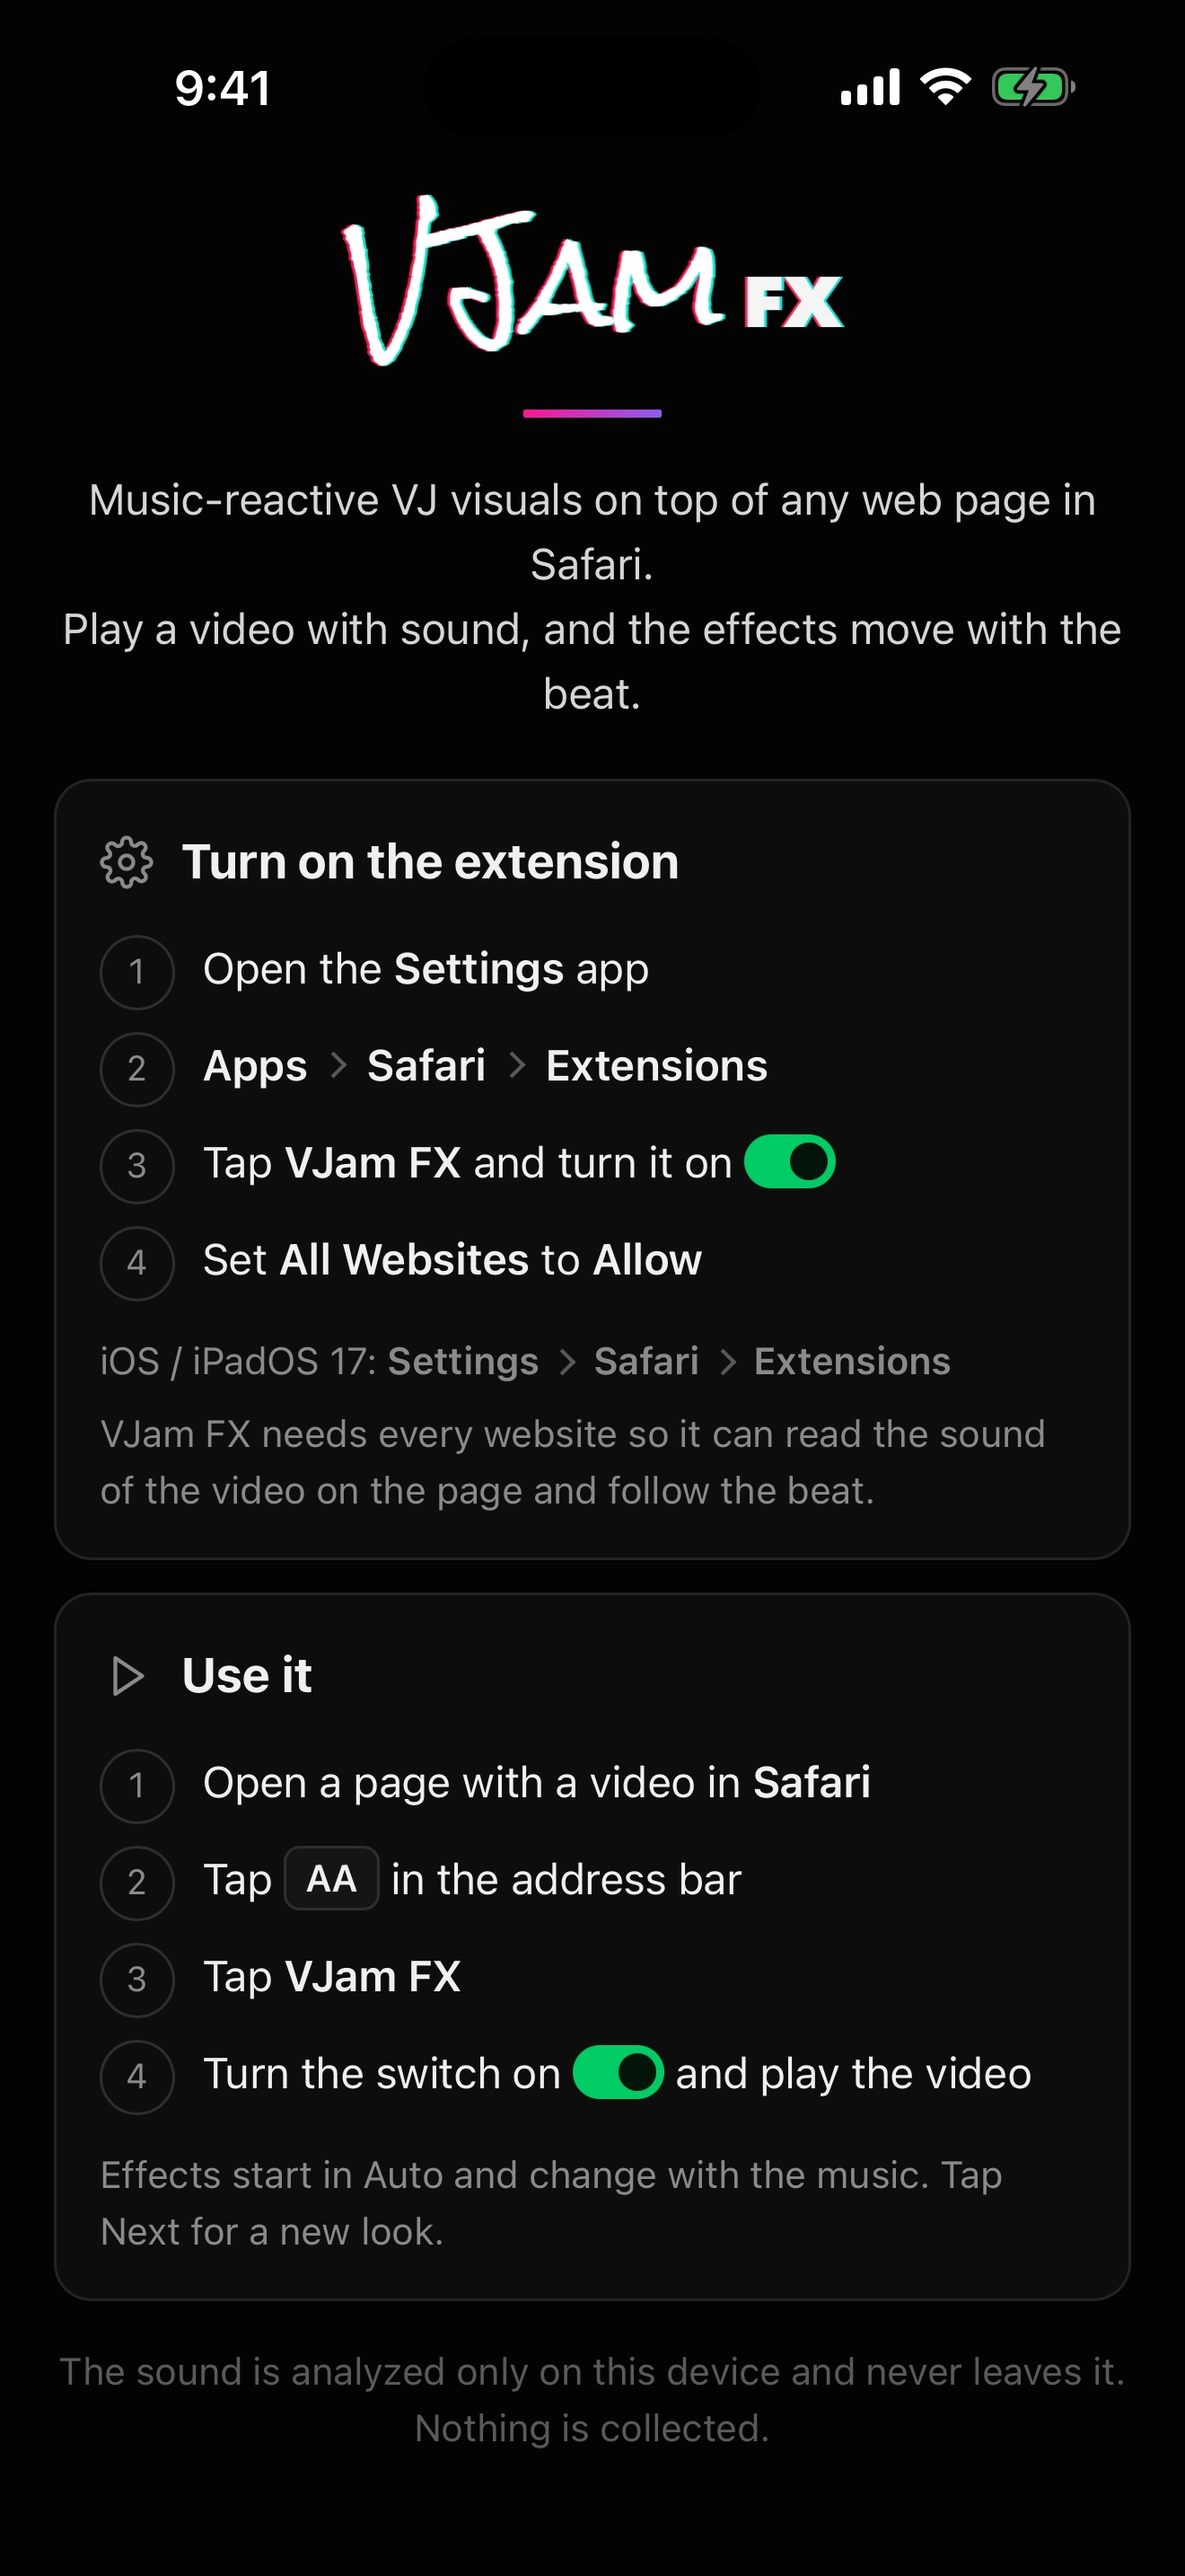
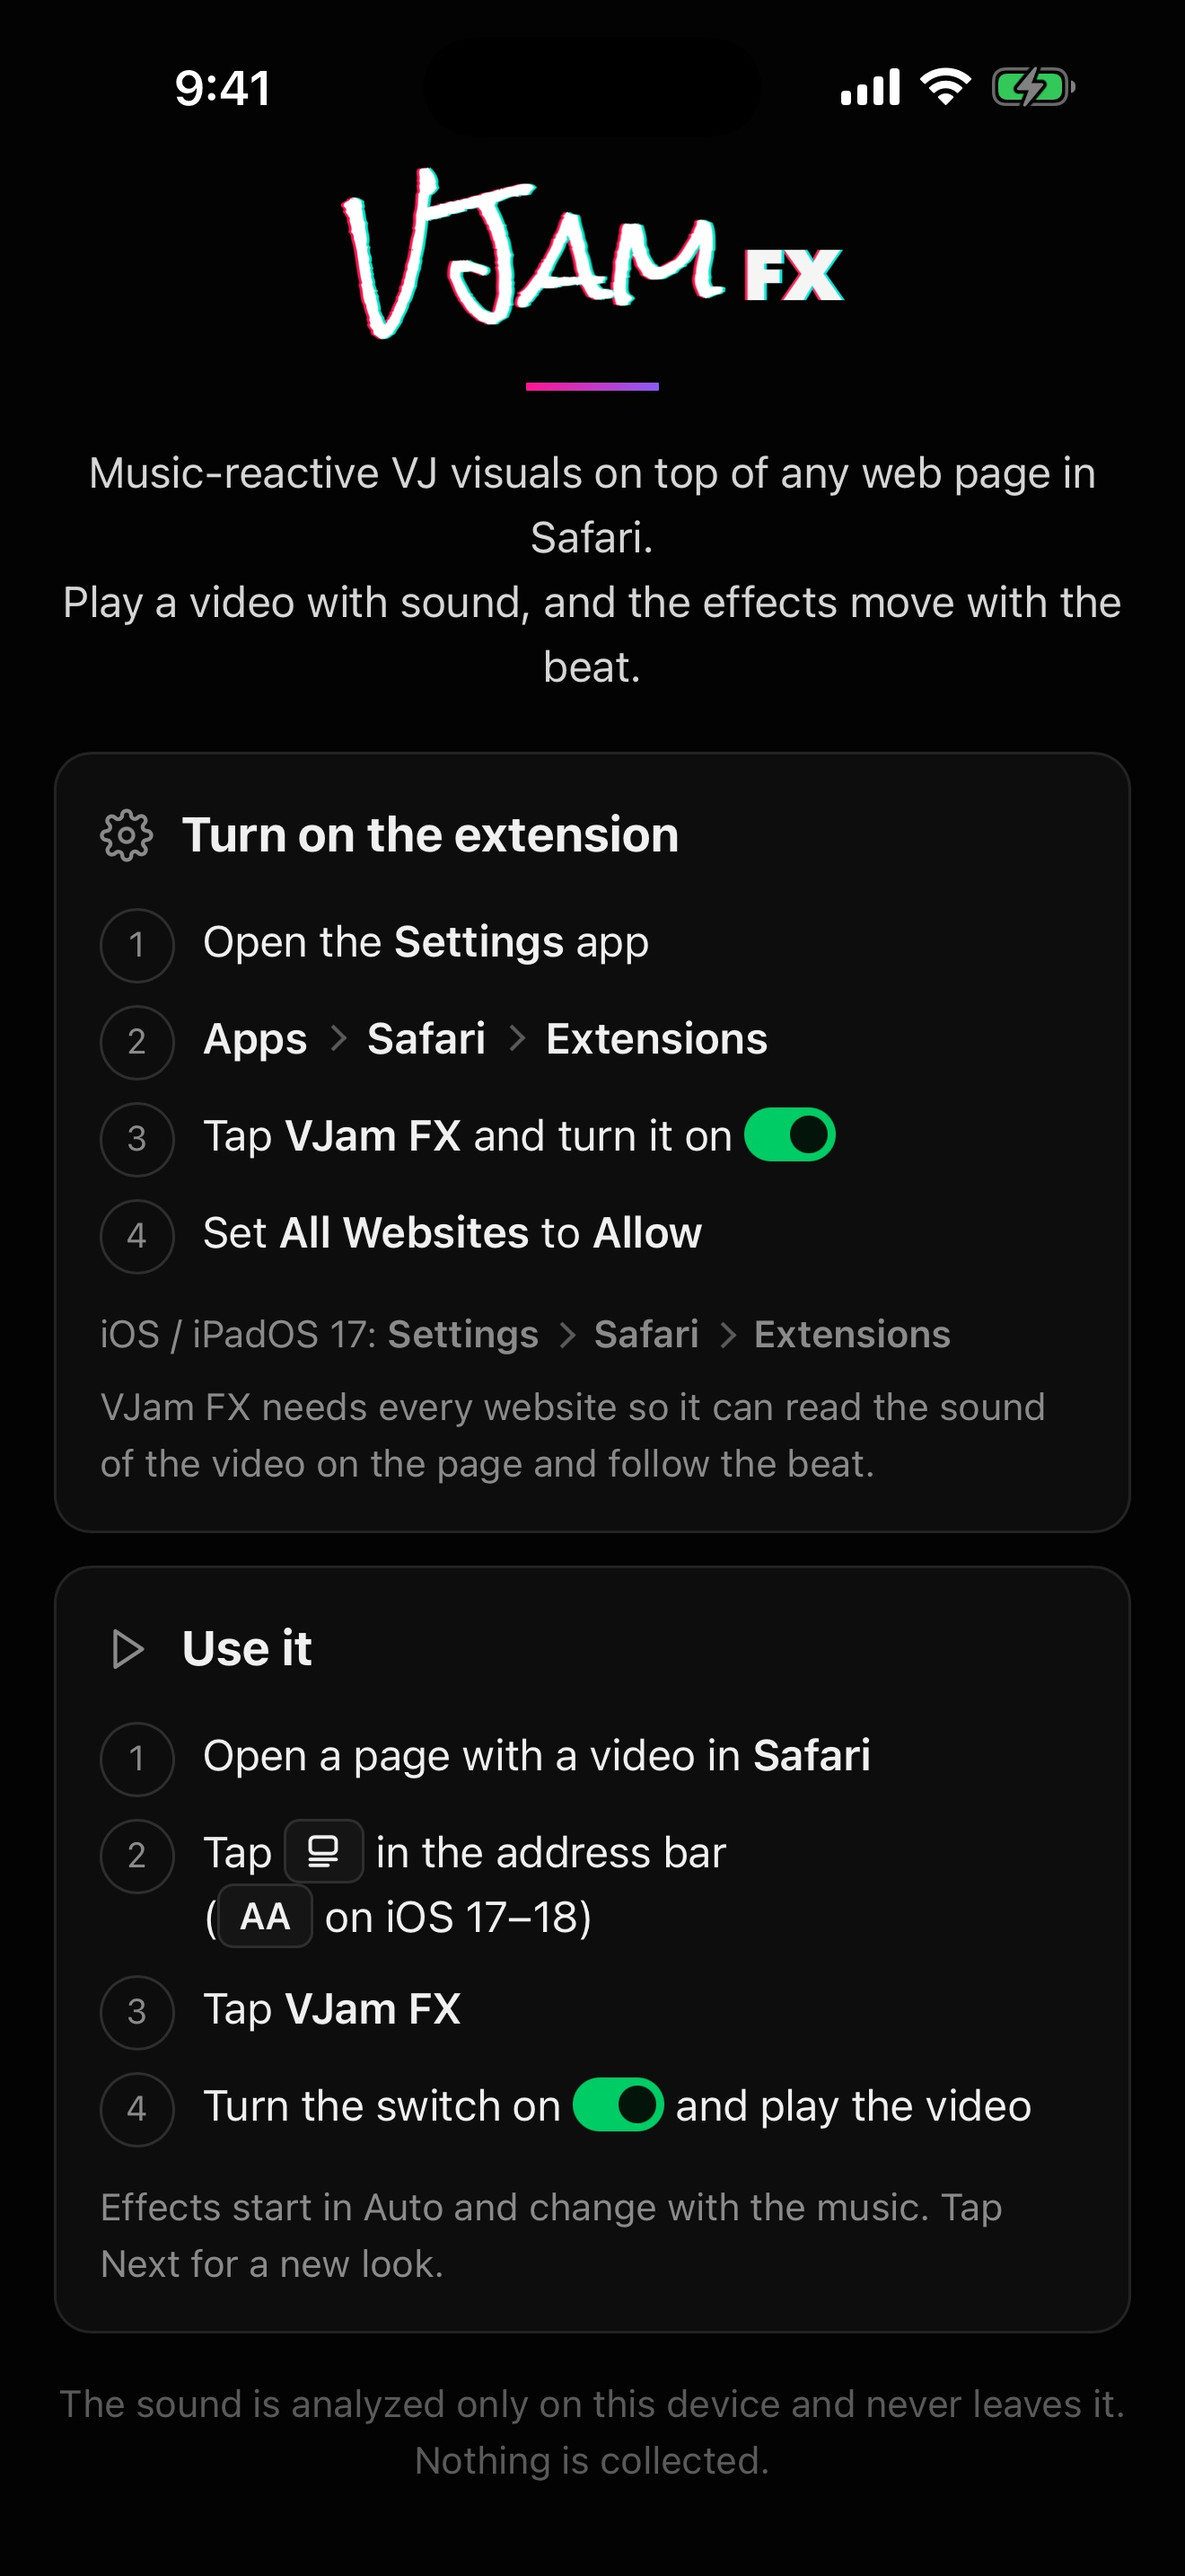
🧭 案内の「AA」を iOS 26 のページメニューのアイコンに(iOS 17〜18 は AA)・1.2.0 (2) で上げ直し(#75) (#79)
- アプリの案内:アイコン(長方形の下に線 2 本)を HTML の SVG で。カッコ書きは折り返さない
- 説明・審査メモ・サポートのページも同じ言い方に。字数を数え直し
- iPhone 6.9 インチのスクショ 05(案内画面)を撮り直し
- CURRENT_PROJECT_VERSION 2(1 は「AA」のままで上げた)

Claude-Session: https://claude.ai/code/session_01Ejqhz7RpZHP9tDGa8ZDp59

Changed region(s): [[0.0621, 0.6206, 0.9318, 0.962], [0.0621, 0.3103, 0.9008, 0.5896], [0.0621, 0.0621, 0.9629, 0.2793]]

diff --git a/safari/VJam FX/VJam FX/Resources/Base.lproj/Main.html b/safari/VJam FX/VJam FX/Resources/Base.lproj/Main.html
@@ -41,7 +41,7 @@
                 <h2><svg class="ic" viewBox="0 0 24 24" aria-hidden="true"><path d="M7 4l12 8-12 8z"/></svg>Use it</h2>
                 <ol class="steps">
                     <li>Open a page with a video in <b>Safari</b></li>
-                    <li>Tap <span class="key">AA</span> in the address bar</li>
+                    <li>Tap <span class="key"><svg class="pm" viewBox="0 0 16 16" aria-label="page menu"><rect x="2.5" y="2" width="11" height="7" rx="1.8"/><path d="M2.5 11.5h11M2.5 14h7.5"/></svg></span> in the address bar <span class="nw">(<span class="key">AA</span> on iOS 17–18)</span></li>
                     <li>Tap <b>VJam FX</b></li>
                     <li>Turn the switch on <span class="sw"></span> and play the video</li>
                 </ol>
@@ -73,7 +73,7 @@
                 <h2><svg class="ic" viewBox="0 0 24 24" aria-hidden="true"><path d="M7 4l12 8-12 8z"/></svg>使い方</h2>
                 <ol class="steps">
                     <li>Safari で動画のページを開く</li>
-                    <li>アドレスバーの <span class="key">ぁあ</span> をタップ</li>
+                    <li>アドレスバーの <span class="key"><svg class="pm" viewBox="0 0 16 16" aria-label="page menu"><rect x="2.5" y="2" width="11" height="7" rx="1.8"/><path d="M2.5 11.5h11M2.5 14h7.5"/></svg></span> をタップ<span class="nw">(iOS 17〜18 は <span class="key">ぁあ</span>)</span></li>
                     <li><b>VJam FX</b> をタップ</li>
                     <li>スイッチをオン <span class="sw"></span> にして、動画を再生</li>
                 </ol>

diff --git a/docs/support.html b/docs/support.html
@@ -50,7 +50,7 @@ a:hover{text-decoration:underline}
 <h2>Use it</h2>
 <ol>
 <li>Open a page with a video in Safari and play it</li>
-<li>Tap <strong>AA</strong> in the address bar, then <strong>VJam FX</strong></li>
+<li>Tap the page menu button in the address bar (on iOS 17–18 it is <strong>AA</strong>), then <strong>VJam FX</strong></li>
 <li>Turn the switch on. Auto mode starts right away; tap <strong>Next</strong> for a different look</li>
 <li>To stop, turn the switch off again</li>
 </ol>
@@ -90,7 +90,7 @@ a:hover{text-decoration:underline}
 <h2>使い方</h2>
 <ol>
 <li>Safari で動画のページを開いて再生</li>
-<li>アドレスバーの <strong>ぁあ</strong> から <strong>VJam FX</strong> をタップ</li>
+<li>アドレスバーのページメニューのボタン(iOS 17〜18 は <strong>ぁあ</strong>)から <strong>VJam FX</strong> をタップ</li>
 <li>スイッチをオン。すぐに Auto で始まります。<strong>Next</strong> で別の見た目に</li>
 <li>止めるときは、もう一度スイッチをオフ</li>
 </ol>

diff --git a/safari/VJam FX/VJam FX/Resources/Style.css b/safari/VJam FX/VJam FX/Resources/Style.css
@@ -204,6 +204,23 @@ b {
     vertical-align: 1px;
 }
 
+/* iOS 26 の Safari のページメニューのボタン(長方形の下に線 2 本)。iOS 17〜18 では AA */
+.key .pm {
+    display: inline-block;
+    width: 14px;
+    height: 14px;
+    vertical-align: -2px;
+    stroke: currentColor;
+    fill: none;
+    stroke-width: 1.5;
+    stroke-linecap: round;
+}
+
+/* カッコ書きは途中で折り返さない */
+.nw {
+    white-space: nowrap;
+}
+
 /* ON のスイッチ(popup のヘッダーと同じ形) */
 .sw {
     display: inline-block;

diff --git a/store/appstore/en.md b/store/appstore/en.md
@@ -21,14 +21,14 @@ VJ effects for any web page
 Turn any web page into a VJ stage. Play a video with sound, switch VJam FX on, and 370 visual effects move with the beat — right inside Safari.
 ```
 
-## Description — 1,805 / 4,000
+## Description — 1,841 / 4,000
 
 ```text
 VJam FX is a Safari extension that lays music-reactive VJ visuals over any web page. Open a page with a video, turn VJam FX on, and the effects follow the beat of the music.
 
 HOW IT WORKS
 • Open a page with a video or music in Safari and play it
-• Tap AA in the address bar, then VJam FX
+• Tap the page menu button in the address bar (AA on iOS 17–18), then VJam FX
 • Turn the switch on — Auto mode starts right away
 
 FEATURES
@@ -80,7 +80,7 @@ visuals,beat,BPM,party,DJ,club,rave,neon,glitch,trippy,psychedelic,overlay,exten
 | Marketing URL | https://infohiroki.github.io/vjam-fx/ |
 | Privacy Policy URL | https://infohiroki.github.io/vjam-fx/privacy-policy.html |
 
-## App Review Information — Notes — 1,461 / 4,000
+## App Review Information — Notes — 1,508 / 4,000
 
 ```text
 VJam FX is a Safari web extension. The app itself shows how to turn the extension on and use it.
@@ -92,7 +92,7 @@ HOW TO ENABLE
 
 HOW TO TEST
 1. In Safari, open our test page https://infohiroki.github.io/vjam-fx/demo/ (an original drum loop) and tap Play. Any web page that plays a video with sound also works.
-2. Tap the page menu button (AA) in the address bar, then tap VJam FX. On iPhone, the address bar is at the bottom of the screen and the VJam FX panel opens as a sheet.
+2. Tap the page menu button in the address bar (a small rectangle with two lines; AA on iOS 17–18), then tap VJam FX. On iPhone, the address bar is at the bottom of the screen and the VJam FX panel opens as a sheet.
 3. Turn on the switch at the top right of the VJam FX panel.
 4. Visual effects appear over the page and change with the beat of the music (Auto mode starts automatically). The panel shows the detected BPM. Tap "Next" for a different set of effects.
 

diff --git a/store/appstore/README.md b/store/appstore/README.md
@@ -94,7 +94,8 @@ python3 store/appstore/demo/make_loop.py   # brew install ffmpeg が要る
 ## iPhone を足す(1.2.0・2026-11-16〜)
 
 - iPhone の実機では試さずに出す(user が決めた。出してから友達に触ってもらう。一度出した端末は外せない)
-- `TARGETED_DEVICE_FAMILY` = `1,2`、`MARKETING_VERSION` 1.2.0、`CURRENT_PROJECT_VERSION` 1
+- `TARGETED_DEVICE_FAMILY` = `1,2`、`MARKETING_VERSION` 1.2.0、`CURRENT_PROJECT_VERSION` 2(1 は案内が「AA」のままで上げたので使わない)
+- 案内の「AA」:iOS 26 の Safari では、長方形の下に線 2 本のアイコン(ページメニュー)になった。アプリの案内・説明・審査メモ・サポートのページを「ページメニューのボタン(iOS 17〜18 は AA)」に
 - `screenshots-iphone69/`:iPhone 6.9 インチのスクショ 5 枚(1320 × 2868、この順)。iPad と同じ組み合わせ
   - 01 neon-tunnel / fireflies / neon-frame・02 kaleidoscope / pulse-ring・03 明るいページ(synth-wave / radial-burst)・04 WebGL(tunnel-shader / neon-frame)・05 アプリの案内画面
 - iPad のスクショは 1.1.0 のまま(App Store Connect で前のバージョンから引き継がれる)

diff --git a/store/appstore/ja.md b/store/appstore/ja.md
@@ -22,14 +22,14 @@ VJam FX: 音で動く VJ エフェクト
 音の出る動画を再生して VJam FX をオンにするだけ。370 種類のエフェクトが、ビートに合わせて Web ページの上で動きます。Safari の中で、そのまま VJ。
 ```
 
-## 説明 — 853 / 4,000
+## 説明 — 877 / 4,000
 
 ```text
 VJam FX は、Safari で開いた Web ページに、音に合わせて動く VJ エフェクトを重ねる機能拡張です。動画のページで VJam FX をオンにすると、エフェクトが音楽のビートについてきます。
 
 使い方
 • Safari で動画や音楽のページを開いて再生
-• アドレスバーの「ぁあ」から VJam FX をタップ
+• アドレスバーのページメニューのボタン(iOS 17〜18 は「ぁあ」)から VJam FX をタップ
 • スイッチをオン。すぐに Auto で始まります
 
 できること
